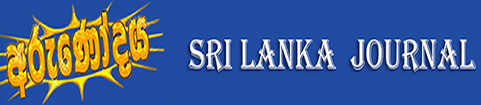
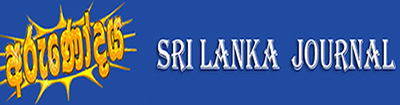
changed the header image size for mobile view

diff --git a/ui/public/assets/css/custom.css b/ui/public/assets/css/custom.css
@@ -9,7 +9,7 @@ header{width:100%;background-image:url(../img/main-header.jpg);background-repeat
 .bluebutton{padding:10px;}
 
 @media screen and (max-width: 481px){
-  header{width:100%;background-image:url(../img/main-header_mob.jpg);background-repeat:no-repeat;background-position:center top;overflow: visible;}
+  header{width:100%;background-image:url(../img/main-header_mob.jpg);background-repeat:no-repeat;background-position:center top;background-size:cover; }
   .header_top{float:left;height:126px;width:100%;}
   .lg-txt{float:right;color:#FFF;font-family:Arial, Helvetica, sans-serif;font-weight:bold;font-size:13px;margin-top:19px;}
   .logo-2{height:85px;width:342px;float:left;margin-top:25px;margin-left:25px;}
